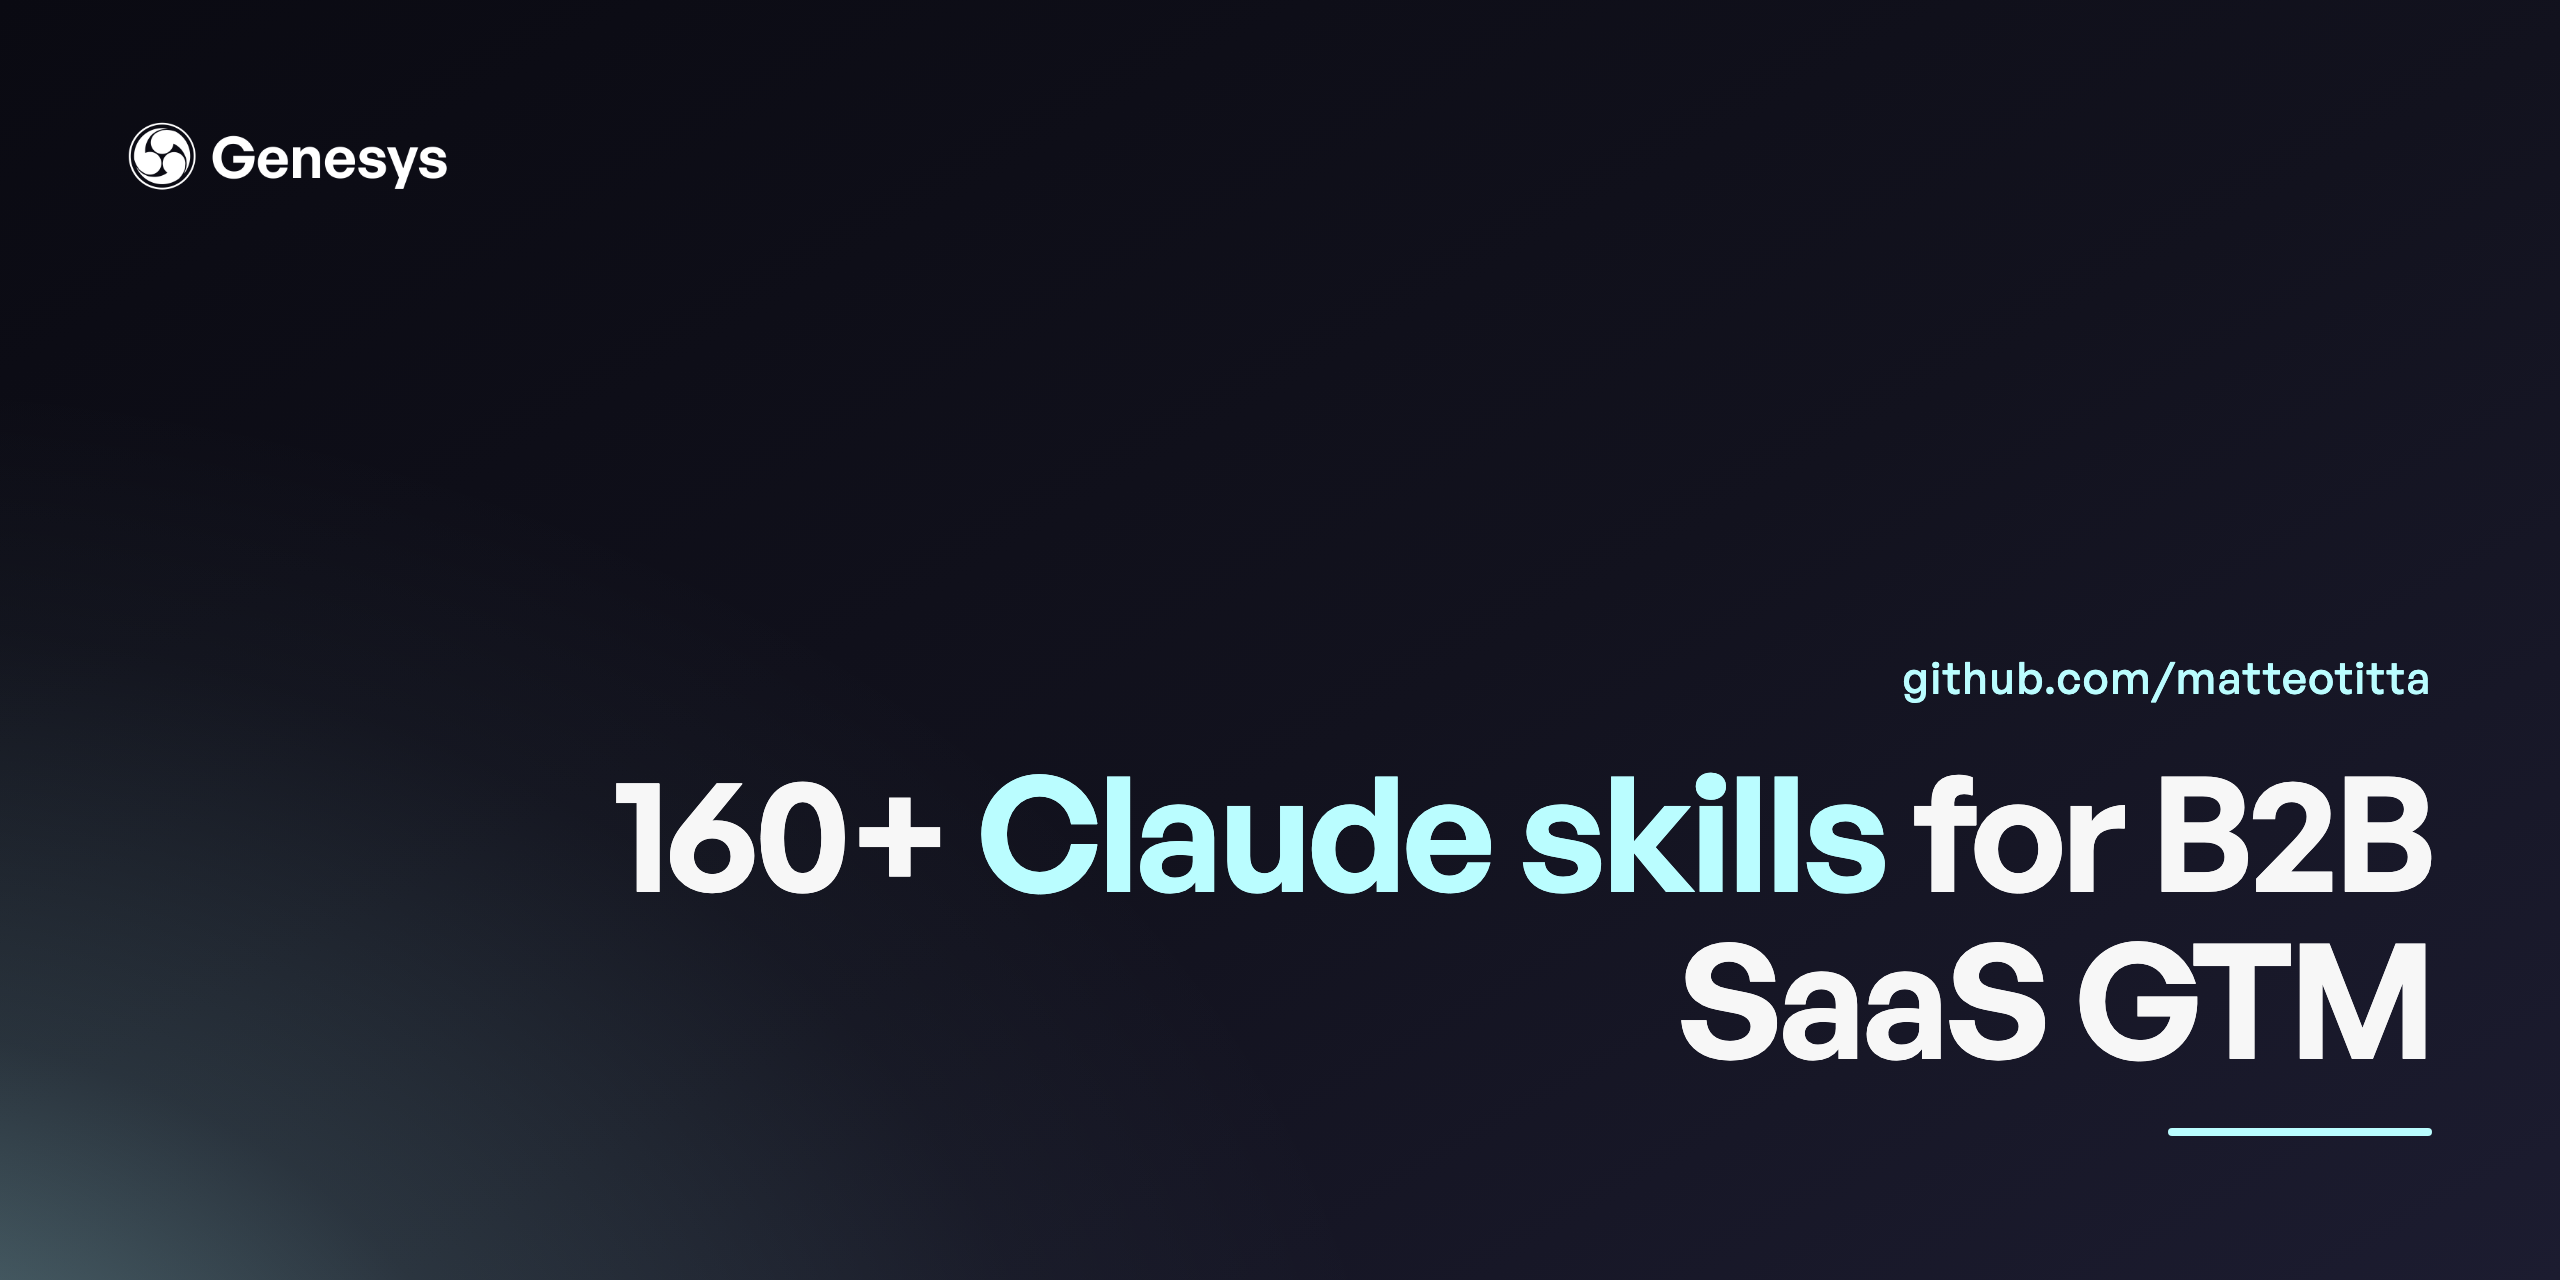
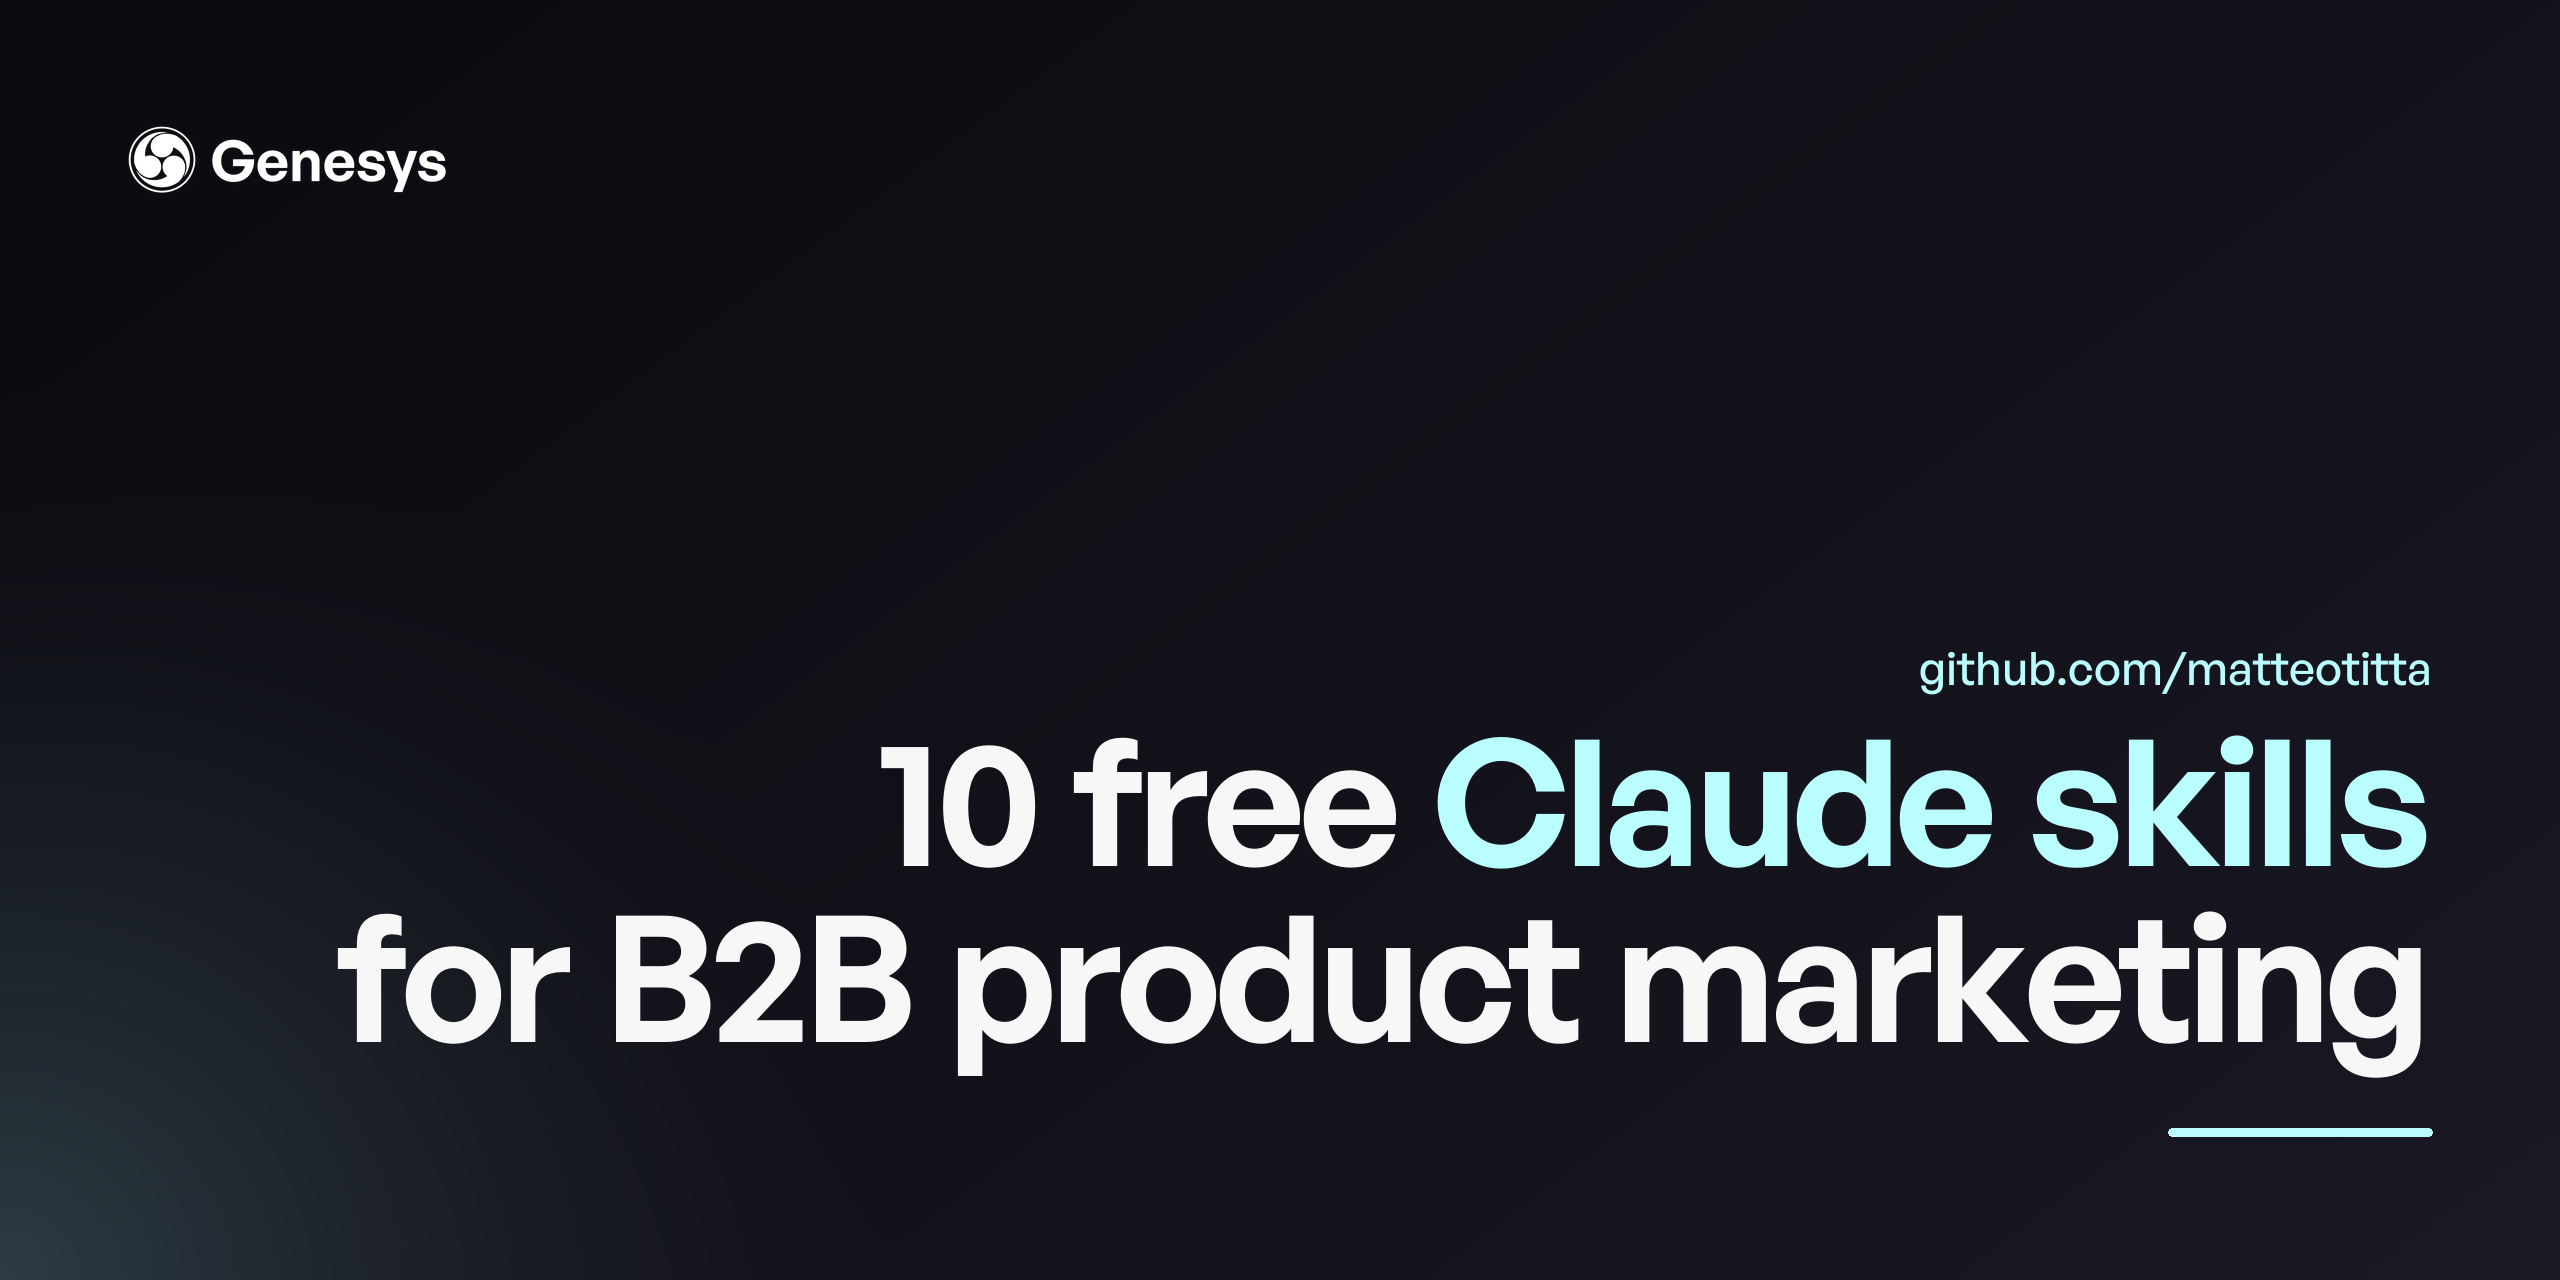
Re-set cover for the 10 free skills and put it back in the README

Changed region(s): [[0.125, 0.5, 0.9688, 0.8438], [0.0312, 0.0938, 0.1875, 0.1562], [0.0, 0.9375, 0.125, 1.0]]

diff --git a/README.md b/README.md
@@ -1,3 +1,5 @@
+![genesys-skills cover](.github/cover.png)
+
 # genesys-skills
 
 ![Skills](https://img.shields.io/badge/skills-10-6400D7) ![Stars](https://img.shields.io/github/stars/matteotitta/genesys-skills?color=6400D7&labelColor=181723) ![License](https://img.shields.io/badge/license-MIT-BAFDFF?labelColor=181723)
